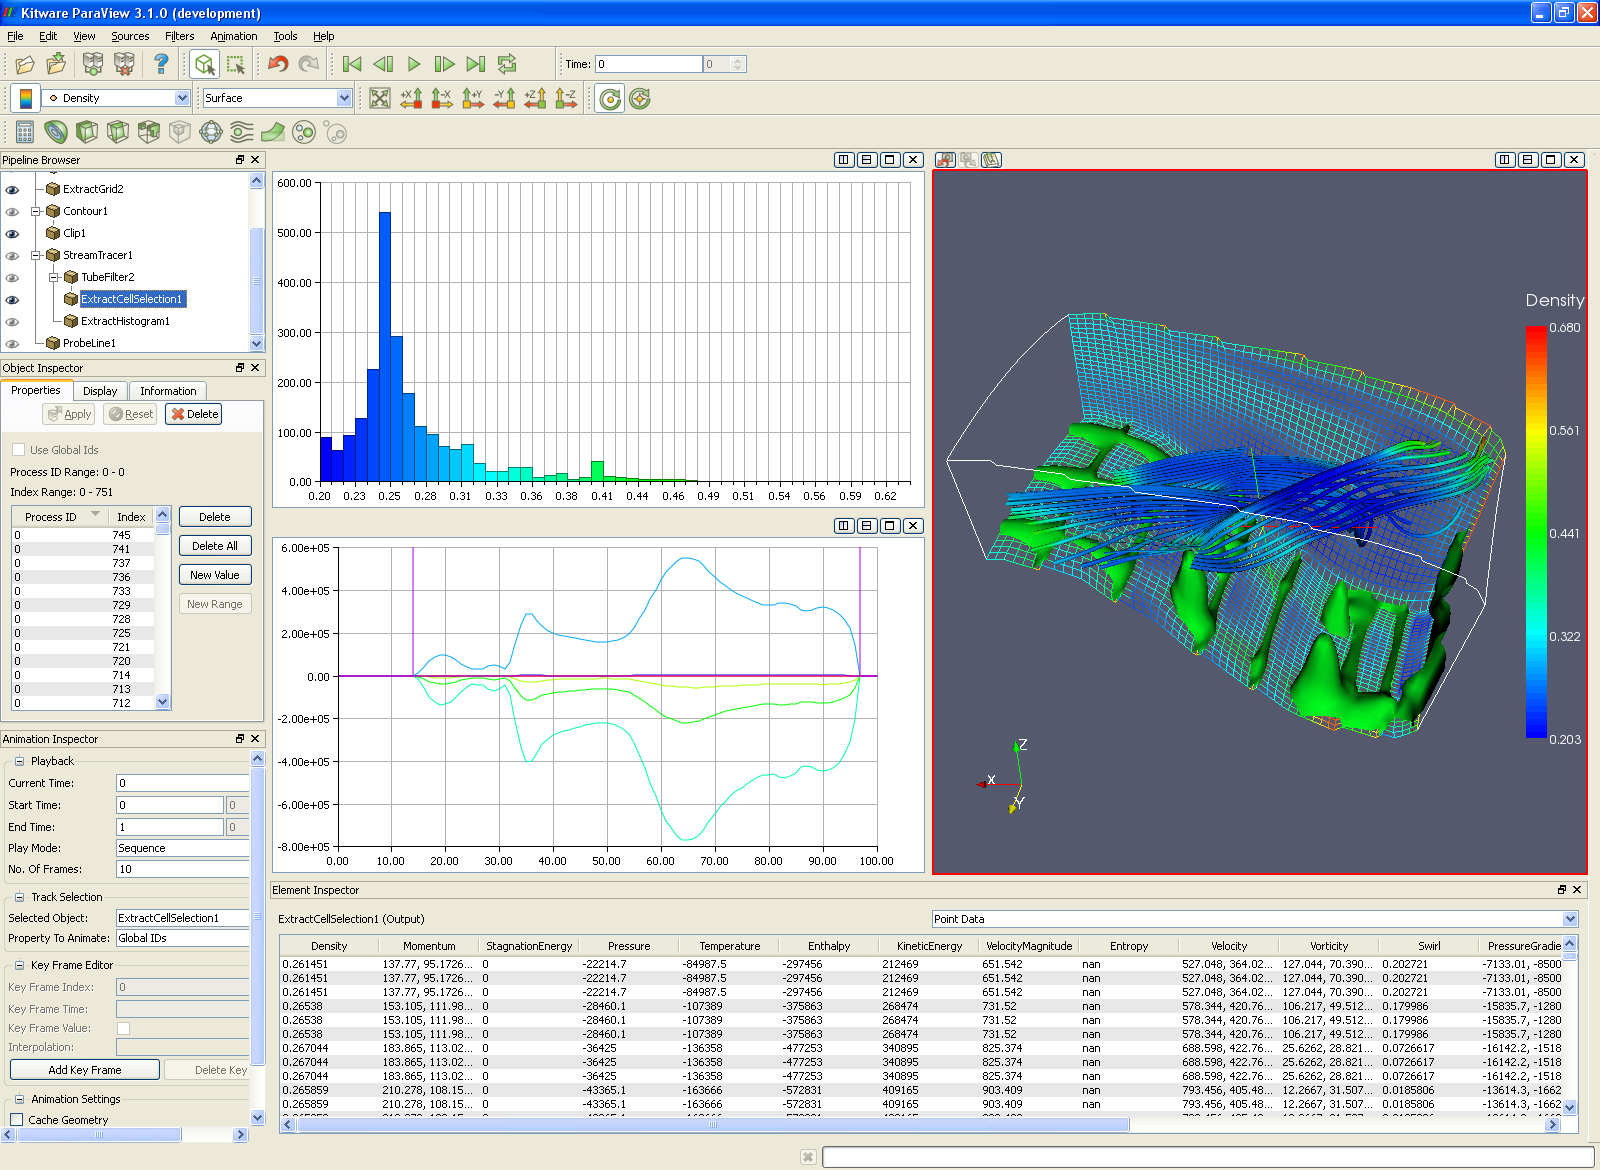
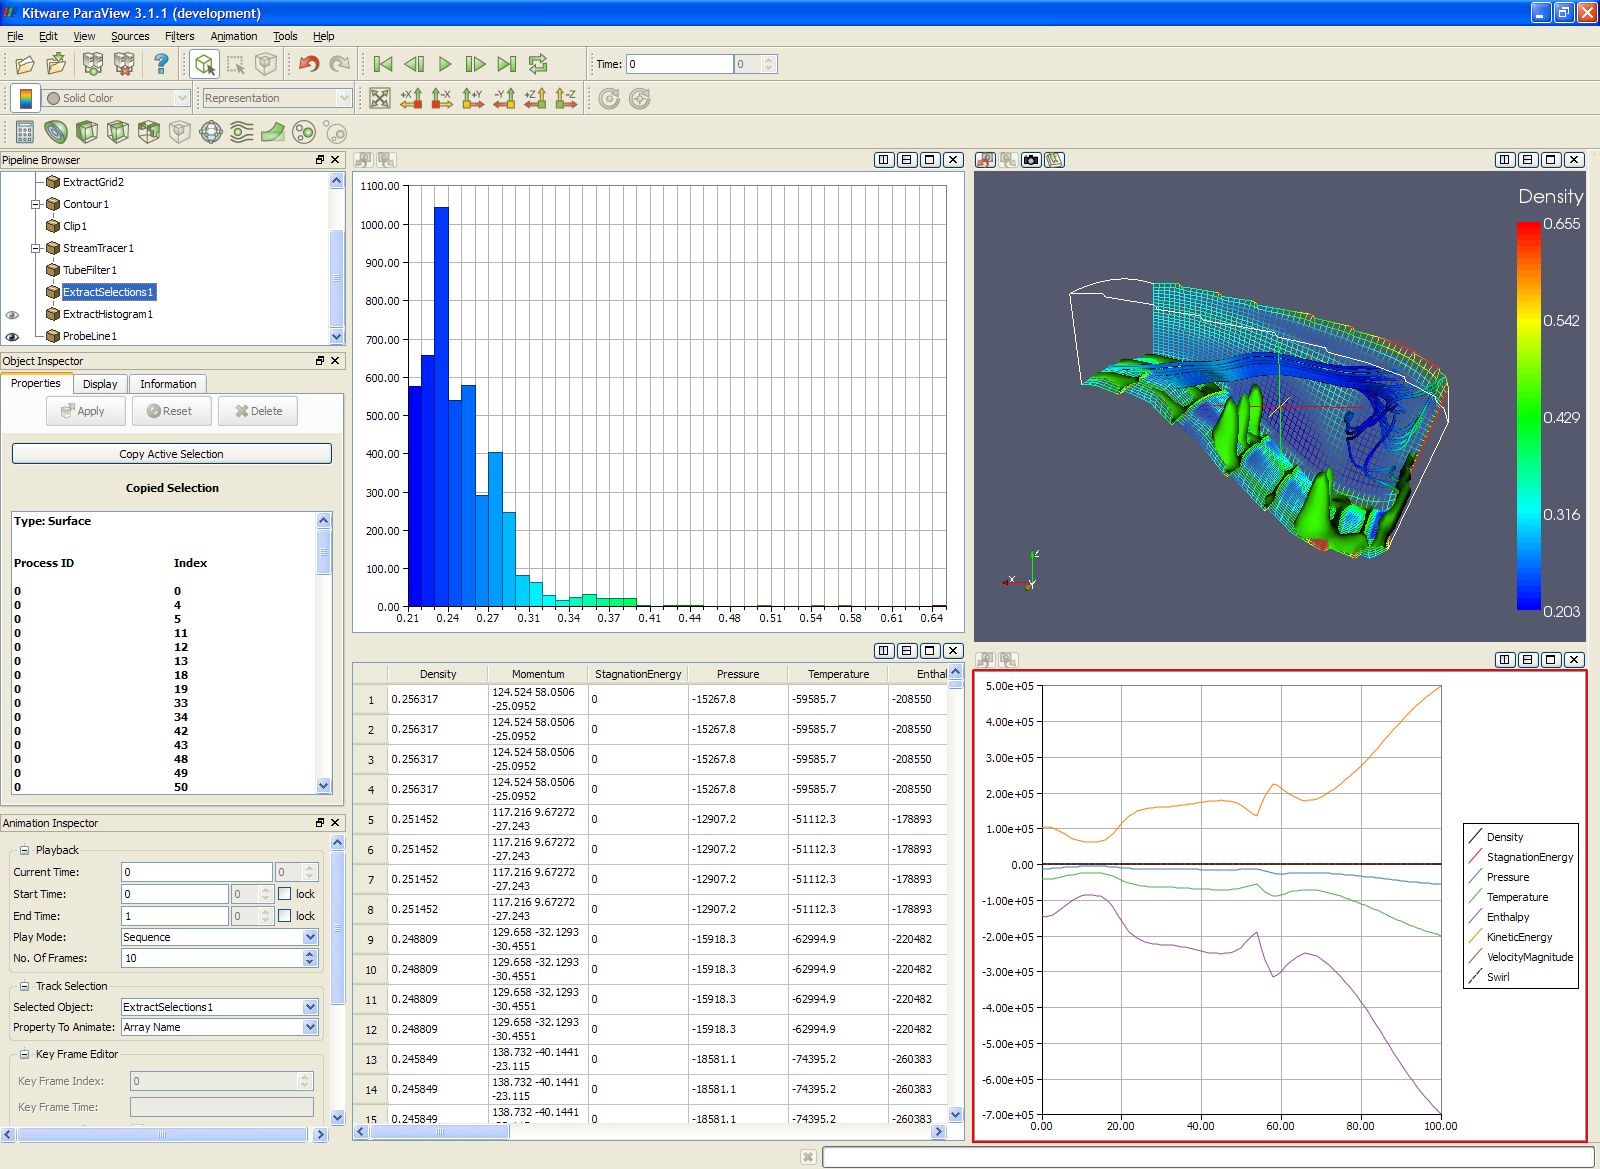
ENH: replacing element inspector with spreadsheet view

diff --git a/Documentation/Views.html b/Documentation/Views.html
@@ -16,7 +16,7 @@
 </p>
 
 <p>
-ParaView supports three different types of views (i.e., rendering
+ParaView supports five different types of views (i.e., rendering
 windows). It also allows multiple views, regardless of type, to be open at
 the same time in a ParaView application window. When the application
 launches, ParaView contains a single view: a 3D View. This is the type of
@@ -28,11 +28,35 @@ view that displays the geometry of datasets that have been loaded or created.
 </p>
 
 <p>
-The two other types of views are the Bar Chart view and the XY Plot view. The
+The next two types of views are the Bar Chart view and the XY Plot view. The
 Bar Chart view can display a histogram of data values contained in a
 dataset. The XY Plot view can display a 2D plot of one or more scalar
 variables, either within a given dataset or across timesteps of a dataset
 containing time information.
+
+<p>
+The 3D View (Comparative) view displays a series of images of the same
+dataset with varying values for one or two paramters. This allows you to
+compare side-by-side the effects of setting these parameters to various
+values.
+
+<p align="center">
+<img src="SpreadsheetView.png"/>
+</p>
+
+<p>
+The Spreadsheet view displays the underlying data values in a dataset. From
+the Display tab for the dataset being shown, you can choose whether to
+display Cell Data, Point Data, or Field Data. The left-most column of numbers
+in the spreadsheet view lists the index for each entry in the spreadsheet
+(point ids for Point Data, cell ids for Cell Data), and the rest of the
+columns show the values at each index of the various arrays the dataset
+contains. Left-clicking on an entry in the spreadsheet view will select the
+corresponding point or cell in the dataset; if the dataset is also shown in a
+3D view, the points or cells will be highlighted. Pressing the Shift key
+while while clicking rows in the spreadsheet view allows you to select a
+range of rows; pressing the Ctrl key allows you to select several rows which
+may not be in sequence.
 
 <p align="center">
 <img src="CreateViewButtons.png"/>
@@ -40,11 +64,11 @@ containing time information.
 
 <p>
 If the bar just above a view is right-clicked, a menu appears; it contains a
-"Convert To" submenu that allows the type of a particular 3D view to be
-changed to one of the other two types. Additionally, from this menu you may
-close the view or split it horizontally or vertically. When a view is split,
-creating a new view, the new view initially contains the buttons shown above
-for selecting the view type.
+"Convert To" submenu that allows the type of a particular view to be changed
+to one of the other four types or to "None". Additionally, from this menu you
+may close the view or split it horizontally or vertically. When a view is
+split, creating a new view, the new view initially contains the buttons shown
+above for selecting the view type.
 
 <p align="center">
 <img src="ViewTitleBarButtons.png"/>
